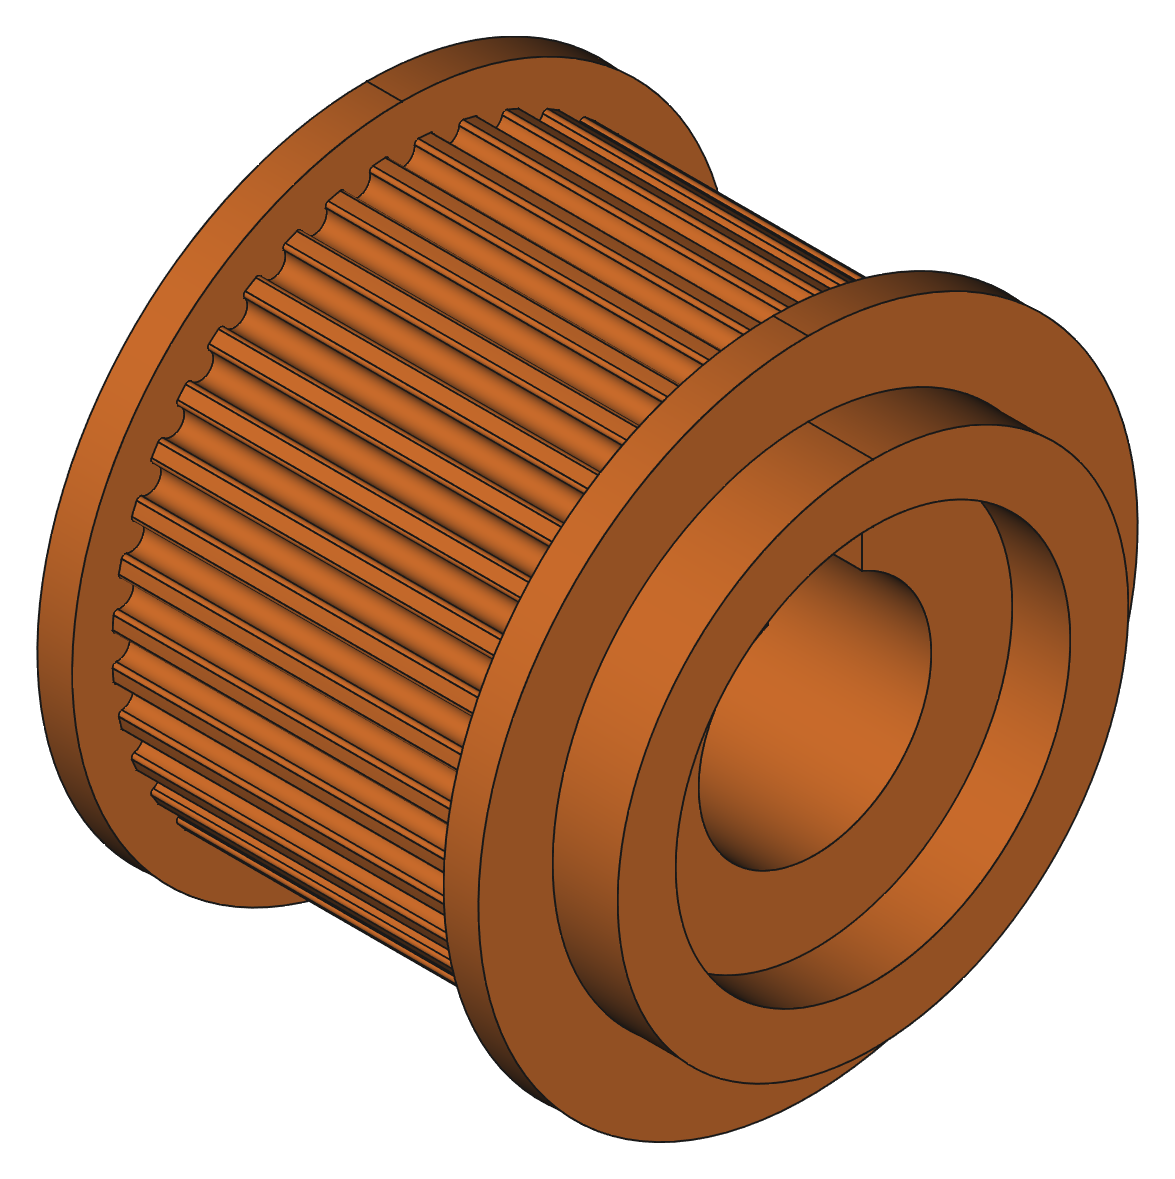
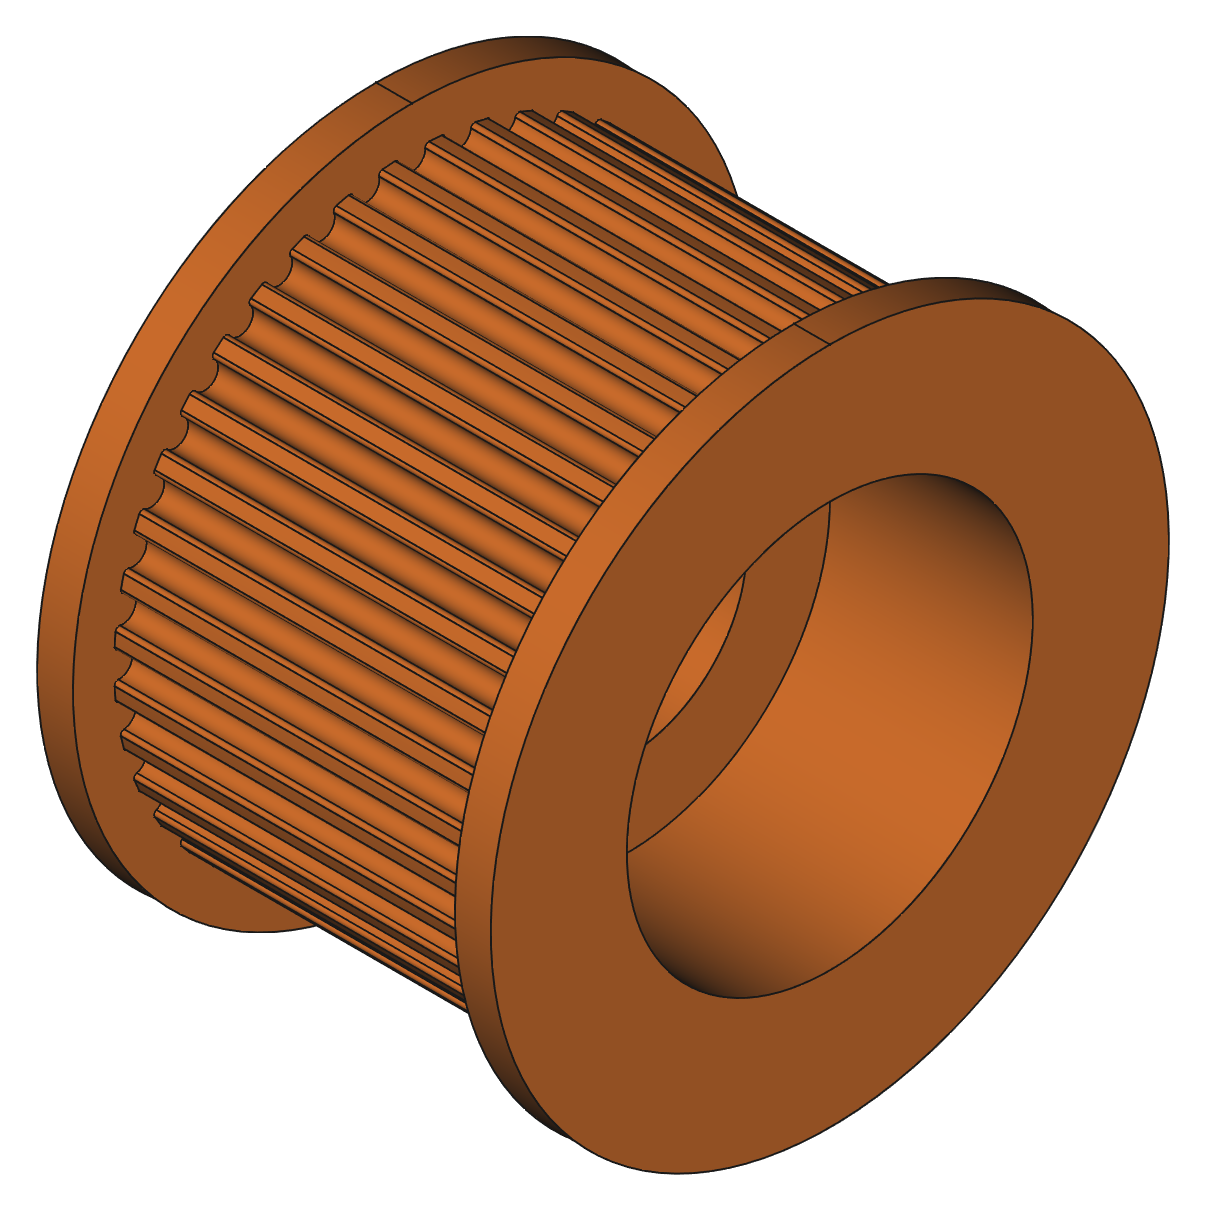
fix: the 40T was wider than the shaft actually available
The free keyed length outboard of the bearing stack is 10 mm, not the 18.81
measured earlier. That figure was the stub exposed with the plate ON; with
the plate off the plain land measures nearer 50 against a ChArUco board, and
the bearings, spacers and retainer take all but the last 10 of it.

At 21.8 wide the pulley put its counterbore floor at 19.3, which on a 10 mm
land leaves 3.7 mm of thread under the nut against the 8.1 it needs. The nut
would have spun without clamping, and nothing in the model would have shown
it.

The pulley is now 19.0 wide - flanges and seat only, no hub - with the floor
at 10.5 and 4.4 mm of thread to spare. Worth noting what sets that width: an
M8 washer's ~8.4 bore cannot pass over the 10 mm land, so the floor must sit
on the thread, while the nut must not run off its end. Those two constraints
fix the pulley, not the belt. build.py asserts both.

diff --git a/hardware/mechanical/x-drive/build.py b/hardware/mechanical/x-drive/build.py
@@ -30,8 +30,9 @@ BORE_L   = P.SHAFT_LAND_L + P.BORE_OVERRUN
 X_FLANGE_IN  = (0.0, P.FLANGE_T)
 X_SEAT       = (P.FLANGE_T, P.FLANGE_T + P.SEAT_W)
 X_FLANGE_OUT = (X_SEAT[1], X_SEAT[1] + P.FLANGE_T)
-X_HUB        = (X_FLANGE_OUT[1], BORE_L + P.CBORE_DEPTH)
-PULLEY_W     = X_HUB[1]
+# No hub: the pulley is only as wide as the flanges and seat need, because
+# anything wider pushes the nut past the end of the thread.
+PULLEY_W     = X_FLANGE_OUT[1]
 
 
 
@@ -51,7 +52,6 @@ def make_pulley():
     body = toothed
     body = body.fuse(_tube(P.FLANGE_OD, *X_FLANGE_IN))
     body = body.fuse(_tube(P.FLANGE_OD, *X_FLANGE_OUT))
-    body = body.fuse(_tube(P.HUB_OD, *X_HUB))
     body = body.removeSplitter()
 
     # bore, nut recess
@@ -65,6 +65,22 @@ def make_pulley():
     body = body.cut(key)
 
     body = body.removeSplitter()
+    # The M8 washer's ~8.4 bore cannot pass over the Ø10 land, so the
+    # counterbore floor HAS to sit on the thread - and far enough in that the
+    # nut still has thread under it. That pair of constraints, not the belt,
+    # is what fixes this pulley's width.
+    WASHER_T, NUT_T = 1.6, 6.5
+    thread0, thread1 = P.SHAFT_LAND_L, P.SHAFT_LAND_L + P.THREAD_L
+    if thread0 > BORE_L:
+        raise AssertionError(
+            f"counterbore floor at {BORE_L:.1f} is still on the Ø{P.SHAFT_D:.0f} "
+            f"land (ends {thread0:.1f}); an M8 washer will not pass over it")
+    if thread1 < BORE_L + WASHER_T + NUT_T:
+        raise AssertionError(
+            f"washer and nut reach {BORE_L + WASHER_T + NUT_T:.1f} but the "
+            f"thread ends at {thread1:.1f} - only "
+            f"{thread1 - BORE_L:.1f} mm of thread under the nut")
+
     return check(body, "Pulley_40T", 1), pd, ro
 
 
@@ -163,7 +179,6 @@ def main():
           f"over {P.MOUNT_T:.0f} of its {P.BOSS_PROUD:.0f} mm")
 
     print("")
-    hub_w = X_HUB[1] - X_HUB[0]
     stack = BORE_L + 1.6 + 6.5          # washer + M8 nut
     avail = P.SHAFT_LAND_L + P.THREAD_L
     for line in (
@@ -183,7 +198,7 @@ def main():
         "",
         f"40T pitch dia {pd:.3f}, tooth OD {2 * ro:.3f}, flange OD {P.FLANGE_OD:.1f}",
         f"width {PULLEY_W:.1f} = flange {P.FLANGE_T:.1f} + seat {P.SEAT_W:.1f}"
-        f" + flange {P.FLANGE_T:.1f} + hub {hub_w:.1f}",
+        f" + flange {P.FLANGE_T:.1f}",
         f"bore {BORE_D:.2f} x {BORE_L:.1f} deep,"
         f" keyway {P.KEY_W + P.KEY_FIT:.2f} x {P.KEY_HUB_DEPTH:.1f}",
         f"nut recess {P.CBORE_D:.1f} dia x {P.CBORE_DEPTH:.1f} deep",

diff --git a/hardware/mechanical/x-drive/params.py b/hardware/mechanical/x-drive/params.py
@@ -43,7 +43,11 @@ REDUCTION = _DRIVE.reduction
 
 # ---------------------------------------------------------- lead screw end
 SHAFT_D = 10.00          # MEASURED  plain keyed land
-SHAFT_LAND_L = 18.8      # MEASURED  (18.81) length of that land
+# The FREE keyed length, outboard of the bearing stack - not the whole land.
+# 18.81 was the stub exposed with the plate on; with the plate off the plain
+# shaft measures about 50 against the ChArUco board, and the bearings,
+# spacers and retainer take all but the last 10 of it.
+SHAFT_LAND_L = 10.0    # MEASURED, with the stack assembled
 THREAD_D = 8.0           # MANUAL    #14 Washer M8 / #15 Nut M8
 THREAD_L = 13.0          # MEASURED  (12.99) threaded stub beyond the land
 KEY_W = 4.00             # MANUAL    #2-1 "Key, 4 X 16", confirmed by measurement
@@ -67,7 +71,10 @@ HUB_OD = 22.0
 BORE_FIT = 0.02          # bore = SHAFT_D + this, reamed
 BORE_OVERRUN = 0.5       # bore runs this far past the end of the land
 CBORE_D = 17.0           # recess for the stock M8 washer + nut
-CBORE_DEPTH = 2.5
+# Deep enough to swallow an M8 washer (1.6) and nut (6.5). The washer's
+# ~8.4 bore cannot pass over the Ø10 land, so the counterbore FLOOR has
+# to land on the thread - which is what sets the pulley's width.
+CBORE_DEPTH = 8.5
 SETSCREW_TAP_D = 3.3     # M4 tapping drill
 
 # -------------------------------------------- the mill's X-axis end plate

diff --git a/hardware/mechanical/x-drive/README.md b/hardware/mechanical/x-drive/README.md
@@ -44,15 +44,28 @@ Measured 2026-11-19, and corroborated by the WEN parts list in three places:
 
 ## How it is held on
 
-The bore runs 19.3 mm deep - 0.5 past the end of the Ø10 land - so the nut
-recess bottoms on the *thread*, not on the shaft's own shoulder. The stock M8
-washer and nut then clamp the pulley back against the bearing seat exactly the
-way they clamped the handwheel. Washer and nut finish at 27.4 mm with 4.4 mm
-of thread to spare.
+The free keyed shaft - what is left outboard once the bearing stack is
+assembled - is **10 mm**, with 13 mm of M8 thread beyond it. The whole
+plain land is nearer 50, but the bearings, spacers and retainer take all
+but the last 10.
 
-There is **no grub screw**: the hub boss wall is only 2.5 mm, and putting one
-through the belt seat would chew up three teeth. Torque goes through the key,
-the nut holds it on. Use a nyloc or a jam nut.
+That, not the belt, fixes the pulley's width. An M8 washer's ~8.4 bore
+cannot pass over the Ø10 land, so the counterbore floor has to sit **on the
+thread**, and far enough in that the nut still has thread under it:
+
+```
+  0        10.0            18.6      23.0
+  |  land  | thread ------------------|
+  |<-bore->|<- washer + nut ->|
+           ^ counterbore floor at 10.5      4.4 mm of thread spare
+```
+
+`build.py` asserts both ends of that: the floor must clear the land, and
+the nut must not run off the thread. Getting it wrong is not visible in the
+model - it just means the nut spins without clamping.
+
+Torque goes through the key, the nut holds it on, exactly as the handwheel
+was retained. There is no grub screw; use a nyloc or a jam nut.
 
 ## What locates it
 

diff --git a/CHANGELOG.md b/CHANGELOG.md
@@ -19,6 +19,20 @@ Changelogs are for humans. Record what changed about the *machine* or the
 
 ### Fixed
 
+- **The 40T pulley was too wide for the shaft that is actually available.**
+  The free keyed length outboard of the bearing stack is 10 mm, not the
+  18.81 measured earlier - that was the stub exposed with the plate on, and
+  with the plate off the plain land measures nearer 50, almost all of it
+  occupied by bearings, spacers and retainer. At 21.8 wide the pulley put
+  its counterbore floor at 19.3, leaving 3.7 mm of thread under the nut
+  against the 8.1 it needs. Pulley is now 19.0 wide with the floor at 10.5
+  and 4.4 mm of thread spare.
+- `build.py` now asserts the nut can actually clamp: the counterbore floor
+  must clear the Ø10 land, because an M8 washer's ~8.4 bore will not pass
+  over it, and the nut must not run off the end of the thread. Neither
+  failure is visible in the model - the nut simply spins without clamping.
+
+
 - **The plate's screws are M6, not M5**, so the bracket's bolt slots were
   1 mm undersize and would not have passed them. WEN parts list #17 is
   "Cap Screw, M6 X 16", and the exploded view on page 18 shows two of them
